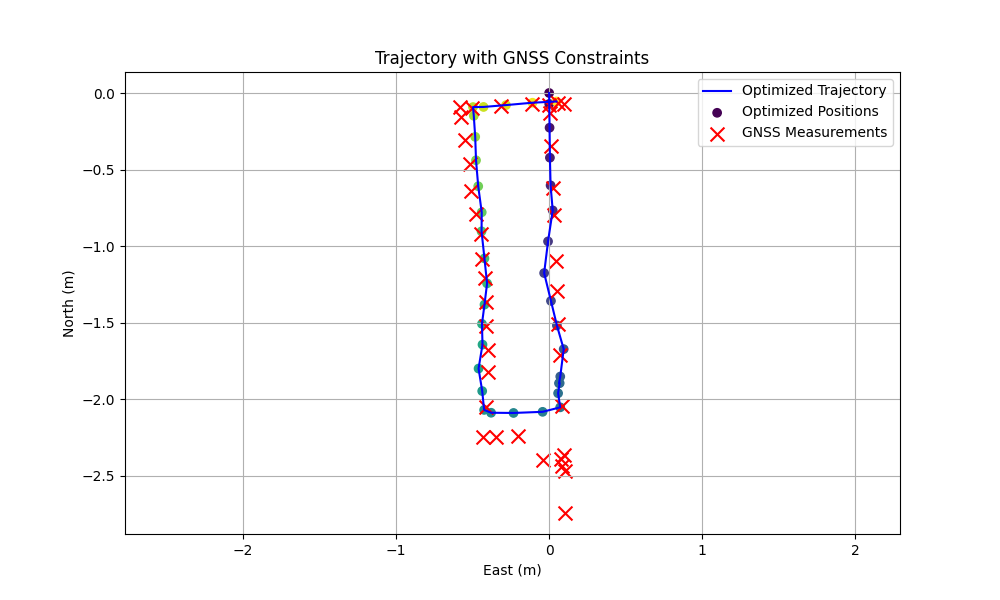
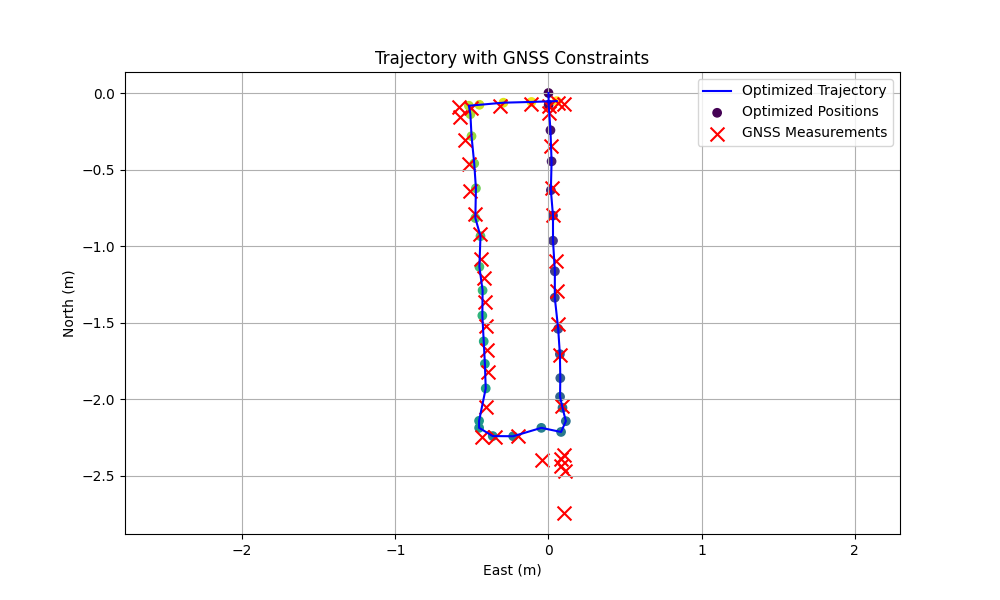
准备开始卡尔曼滤波测试

diff --git a/vggt_slam/solver.py b/vggt_slam/solver.py
@@ -18,7 +18,7 @@ from vggt_slam.map import GraphMap
 from vggt_slam.submap import Submap
 from vggt_slam.h_solve import ransac_projective
 from vggt_slam.gradio_viewer import TrimeshViewer
-
+from KalmanFilter import KalmanFilter
 def color_point_cloud_by_confidence(pcd, confidence, cmap='viridis'):
     """
     Color a point cloud based on per-point confidence values.
@@ -152,7 +152,7 @@ class Solver:
         else:
             from vggt_slam.graph import PoseGraph
         self.graph = PoseGraph()
-
+        self.kf = KalmanFilter(dim_state=6, dim_measurement=3)
         self.image_retrieval = ImageRetrieval()
         self.current_working_submap = None
 
@@ -181,14 +181,16 @@ class Solver:
         # 计算从起点到各点的距离比例
         scale_factors = []
         for i in range(1, len(self.visual_positions)):
+            visual_delta_xy = self.visual_positions[i][:2] - self.visual_positions[i-1][:2]
+            gnss_delta_xy = self.gnss_positions[i][:2] - self.gnss_positions[i-1][:2]
             visual_delta = self.visual_positions[i] - self.visual_positions[i-1]
             gnss_delta = self.gnss_positions[i] - self.gnss_positions[i-1]
-            
             visual_dist = np.linalg.norm(visual_delta)
             gnss_dist = np.linalg.norm(gnss_delta)
             
             if visual_dist > 0.05:  # 避免除以小值
-                scale_factors.append(gnss_dist / visual_dist)
+                factor = gnss_dist / visual_dist
+                scale_factors.append(factor)
         
         if scale_factors:
             self.scale_factor_midian = np.median(scale_factors)
@@ -530,7 +532,8 @@ class Solver:
         # 处理GNSS数据
         if gnss_measurements is not None and len(gnss_measurements) > 0:
             last_gnss = gnss_measurements[-1]
-            current_gnss = np.array(self.graph.gnss_processor.lla_to_enu(*last_gnss))
+            lat, lon, alt = last_gnss
+            current_gnss = np.array(self.graph.gnss_processor.lla_to_enu(lat, lon, alt))
             # 如果是第一个有GNSS的帧，初始化
             if self.last_gnss_pos is None:
                 self.last_visual_pos = current_visual_pos
@@ -539,6 +542,8 @@ class Solver:
                 self.gnss_positions.append(current_gnss)
                 print(f"Initialized GNSS alignment at frame {len(self.visual_positions)}")
             else:
+                visual_delta_xy = current_visual_pos[:2] - self.last_visual_pos[:2]
+                gnss_delta_xy = current_gnss[:2] - self.last_gnss_pos[:2]
                 # 计算相对运动
                 visual_delta = current_visual_pos - self.last_visual_pos
                 gnss_delta = current_gnss - self.last_gnss_pos
@@ -554,9 +559,9 @@ class Solver:
                         print(f"Scale estimate from frame {len(self.visual_positions)-1} to {len(self.visual_positions)}: {scale_estimate:.4f}")
                         self.scale_factor = scale_estimate
                         # 如果有足够的估计点，计算全局尺度
-                        if len(self.visual_positions) >= 1:
-                            self.align_scale()
-                            self.scale_aligned = True
+                        #if len(self.visual_positions) >= 1:
+                        self.align_scale()
+                        self.scale_aligned = True
             # 更新最后位置
             self.last_visual_pos = current_visual_pos
             self.last_gnss_pos = current_gnss
@@ -577,12 +582,11 @@ class Solver:
                 points_world_query = self.current_working_submap.get_frame_pointcloud(loop_index).reshape(-1, 3)
                 H_relative_lc = ransac_projective(points_world_query, points_world_detected)
 
-
             self.graph.add_between_factor(loop.detected_submap_id, loop.query_submap_id, H_relative_lc, self.graph.relative_noise)
             self.graph.increment_loop_closure() # Just for debugging and analysis, keep track of total number of loop closures
 
-            print("added loop closure factor", loop.detected_submap_id, loop.query_submap_id, H_relative_lc)
-            print("homography between nodes estimated to be", np.linalg.inv(self.map.get_submap(loop.detected_submap_id).get_reference_homography()) @ H_w_submap)
+            # print("added loop closure factor", loop.detected_submap_id, loop.query_submap_id, H_relative_lc)
+            # print("homography between nodes estimated to be", np.linalg.inv(self.map.get_submap(loop.detected_submap_id).get_reference_homography()) @ H_w_submap)
         self.map.add_submap(self.current_working_submap)
         # 如果已经对齐尺度，应用到GNSS约束
         if gnss_measurements is not None and len(gnss_measurements) > 0:
@@ -601,12 +605,8 @@ class Solver:
                     self.graph.add_gnss_to_submap(
                         submap_id, 
                         enu, 
-                        scale_factor=self.scale_factor if self.scale_aligned else 200.0
+                        scale_factor=self.scale_factor if self.scale_aligned else 180
                     )
-        # Add GNSS measurements if available
-        # if gnss_measurements is not None and len(gnss_measurements) > 0:
-        #     print(f"Adding {len(gnss_measurements)} GNSS measurements to graph")
-        #     self.graph.add_gnss(gnss_measurements)
 
     def sample_pixel_coordinates(self, H, W, n):
         # Sample n random row indices (y-coordinates)
@@ -657,9 +657,39 @@ class Solver:
                 predictions = model(images)
 
         extrinsic, intrinsic = pose_encoding_to_extri_intri(predictions["pose_enc"], images.shape[-2:])
+
+        # FIXED_FOCAL = 300       
+        # new_intrinsic = intrinsic.clone()
+        
+        # # original_cx = intrinsic[..., 0, 2]
+        # # original_cy = intrinsic[..., 1, 2]
+        
+        # new_intrinsic[..., 0, 0] = FIXED_FOCAL  # fx
+        # new_intrinsic[..., 1, 1] = FIXED_FOCAL  # fy
+        
+        # print("\n============ 焦距修正 ============")
+        # print(f"原始形状: {intrinsic.shape}")
+        # print(f"首帧原始值:\n{intrinsic[0,0].cpu().numpy()}")
+        # print(f"首帧修正后:\n{new_intrinsic[0,0].cpu().numpy()}")
+        # print("================================")
         predictions["extrinsic"] = extrinsic
         predictions["intrinsic"] = intrinsic
         predictions["detected_loops"] = detected_loops
+
+        # intrinsic = new_intrinsic[0]  # 形状变为[num_frames, 3, 3]
+        # print("\n============ 焦距输出 ============")
+        # for frame_idx in range(intrinsic.shape[0]):  # 遍历所有帧
+        #     frame_matrix = intrinsic[frame_idx]
+        #     fx = frame_matrix[0, 0].item()
+        #     fy = frame_matrix[1, 1].item()
+        #     cx = frame_matrix[0, 2].item()
+        #     cy = frame_matrix[1, 2].item()
+            
+        #     print(f"帧 {frame_idx+1}/{intrinsic.shape[0]}:")
+        #     print(f"  fx = {fx:.3f}")
+        #     print(f"  fy = {fy:.3f}")
+        #     print(f"  主点 (cx, cy) = ({cx:.1f}, {cy:.1f})")
+        # print("================================\n")
         # print("extrinsic_after", extrinsic)
         for key in predictions.keys():
             if isinstance(predictions[key], torch.Tensor):

diff --git a/KalmanFilter.py b/KalmanFilter.py
@@ -1,0 +1,129 @@
+import os
+os.environ["QT_QPA_PLATFORM_PLUGIN_PATH"] = "/home/ansel/anaconda3/envs/mast3r-slam/lib/python3.11/site-packages/cv2/qt/plugins/platforms"
+os.environ.update({"QT_QPA_PLATFORM_PLUGIN_PATH": "/home/ansel/anaconda3/envs/mast3r-slam/lib/python3.11/site-packages/cv2/qt/plugins/platforms"})
+import numpy as np
+import matplotlib.pyplot as plt
+import glob
+
+from video_process import VideoProcess
+from gnss_processer import GNSSprocesser
+import vggt_slam.slam_utils as utils
+
+class KalmanFilter:
+    def __init__(self, dim_state, dim_measurement):
+        # 状态维度和观测维度
+        self.dim_state = dim_state
+        self.dim_measurement = dim_measurement
+        
+        # 初始化状态向量 x 和估计误差协方差矩阵 P
+        self.x = np.zeros((dim_state, 1))  # 初始状态，默认为零
+        self.P = np.eye(dim_state)  # 初始误差协方差矩阵，默认为单位矩阵
+        
+        # 初始化状态转移矩阵 F，假设状态每秒更新一次
+        self.F = np.eye(dim_state)
+        self.F = np.array([
+            [1, 0, 0, 0.033, 0, 0],
+            [0, 1, 0, 0, 0.033, 0],
+            [0, 0, 1, 0, 0, 0.033],
+            [0, 0, 0, 1, 0, 0],
+            [0, 0, 0, 0, 1, 0],
+            [0, 0, 0, 0, 0, 1]
+        ])
+        # 初始化观测矩阵 H
+        self.H = np.zeros((dim_measurement, dim_state))
+        self.H = np.array([
+            [1, 0, 0, 0, 0, 0],
+            [0, 1, 0, 0, 0, 0],
+            [0, 0, 1, 0, 0, 0]
+        ])
+        # 初始化过程噪声协方差矩阵 Q 和测量噪声协方差矩阵 R
+        self.Q = np.eye(dim_state) * 0.1  # 假设过程噪声较小
+        self.R = np.eye(dim_measurement) * 1.0  # 假设测量噪声较大
+
+        self.vp_ = VideoProcess() # 相机处理，用于读取图片的GNSS
+        self.gnss_processer = GNSSprocesser()
+        self.gnss_data_enu = []
+        self.gnss_data = []
+        self.optimized_data = []
+    def set(self, gnss_setment):
+        self.gnss_data = gnss_setment
+    def reduce(self):
+        for gps_info in self.gnss_data:
+            lat, lon, alt = gps_info
+        enu = self.gnss_processer.lla_to_enu(lat, lon, alt)
+        self.gnss_data_enu.append(enu)
+        self.gnss_data_enu_array = np.array(self.gnss_data_enu)
+
+        for z in self.gnss_data_enu_array:
+            z = z.reshape(-1, 1)
+            self.predict()
+            self.update(z)
+            self.optimized_data.append(self.x[:3].flatten())
+        self.optimized_data_array = np.array(self.optimized_data)
+        return self.optimized_data_array
+    def predict(self):
+        # 预测步骤
+        self.x = np.dot(self.F, self.x)
+        self.P = np.dot(self.F, np.dot(self.P, self.F.T)) + self.Q
+    
+    def update(self, z):
+        # 更新步骤
+        y = z - np.dot(self.H, self.x)  # 观测残差
+        S = np.dot(self.H, np.dot(self.P, self.H.T)) + self.R  # 残差协方差
+        K = np.dot(self.P, np.dot(self.H.T, np.linalg.inv(S)))  # 卡尔曼增益
+        self.x = self.x + np.dot(K, y)  # 更新状态估计
+        self.P = self.P - np.dot(K, np.dot(self.H, self.P))  # 更新误差协方差
+
+# # 使用示例
+# kf = KalmanFilter(dim_state=6, dim_measurement=3)
+
+# # 假设读取图片中的 GPS 信息
+# image_folder = "/home/ansel/works/vggt-slam/VGGT-SLAM/temp_frames"
+# image_names = [f for f in glob.glob(os.path.join(image_folder, "*")) 
+#                if "depth" not in os.path.basename(f).lower() and "txt" not in os.path.basename(f).lower() 
+#                and "db" not in os.path.basename(f).lower()]
+# image_names = utils.sort_images_by_number(image_names)
+
+# # 读取第一张图片的 GPS 信息
+# gps_info = kf.vp_.read_exif_from_image(image_names[0])
+# kf.gnss_processer.setReference(gps_info)
+
+# gnss_data = np.array(kf.gnss_data)
+
+# # 存储优化后的 GNSS 数据
+# optimized_data = []
+
+# # 通过卡尔曼滤波器逐步处理每一时刻的GNSS测量值
+# for z in gnss_data:
+#     z = z.reshape(-1, 1)  # 将观测数据从一维数组转换为列向量
+#     # 预测步骤
+#     kf.predict()
+
+#     # 更新步骤
+#     kf.update(z)
+
+#     # 将每次更新后的状态（位置）存储到 optimized_data
+#     optimized_data.append(kf.x[:3].flatten())  # 只保存位置 (E, N, U)
+
+# # 转换为 NumPy 数组
+# optimized_data = np.array(optimized_data)
+# os.environ.update({"QT_QPA_PLATFORM_PLUGIN_PATH": "/home/ansel/anaconda3/envs/mast3r-slam/lib/python3.11/site-packages/cv2/qt/plugins/platforms"})
+
+# # 绘制 2D 平面图 (E, N)
+# plt.figure(figsize=(10, 6))
+
+# # 绘制 GNSS 测量数据
+# plt.plot(gnss_data[:, 0], gnss_data[:, 1], 'ro-', label="GNSS Data")
+
+# # 绘制优化后的卡尔曼滤波数据
+# plt.plot(optimized_data[:, 0], optimized_data[:, 1], 'b-', label="Kalman Filtered Data")
+
+# # 设置图标
+# plt.title("GNSS Data vs Kalman Filtered Data")
+# plt.xlabel("East (E)")
+# plt.ylabel("North (N)")
+# plt.legend()
+# plt.grid(True)
+
+# # 显示图形
+# plt.show()

diff --git a/vggt_slam/graph.py b/vggt_slam/graph.py
@@ -17,65 +17,12 @@ class PoseGraph:
         self.gnss_processor = GNSSprocesser() # 加入gnss处理
         self.graph = NonlinearFactorGraph()
         self.values = Values()
-        # n = 0.05*np.ones(15, dtype=float)
-        # n[3] = 1e-6
-        # n[7] = 1e-6
-        # n[11] = 1e-6
-
-        # n[1] = 1e-6
-        # n[2] = 1e-6
-        # n[4] = 1e-6
-        # n[6] = 1e-6
-        # n[8] = 1e-6
-        # n[9] = 1e-6
-        # n[10] = 1e-6
         self.relative_noise = noiseModel.Diagonal.Sigmas(0.05*np.ones(15, dtype=float))
         self.anchor_noise = noiseModel.Diagonal.Sigmas([1e-6] * 15)
         self.initialized_nodes = set()
         self.num_loop_closures = 0 # Just used for debugging and analysis
         self.frame_nodes = {}
-    # def scale_all_poses(self, scale_factor):
-    #     """Scale all pose positions by the given factor while maintaining SL(4) constraints"""
-    #     print(f"Scaling all poses by factor: {scale_factor}")
-    #     # 创建一个新的Values对象来存储缩放后的位姿
-    #     new_values = Values()
-        
-    #     for key in self.initialized_nodes:
-    #         H = self.values.atSL4(key).matrix().copy()
 
-    #         # 正确提取3D位置（考虑齐次坐标）
-    #         position = H[0:3, 3] / H[3, 3]
-            
-    #         # 缩放位置
-    #         scaled_position = position * scale_factor
-            
-    #         # 创建新的变换矩阵 - 保持齐次坐标的最后一行不变
-    #         H_new = H.copy()
-    #         H_new[0:3, 3] = scaled_position * H[3, 3]
-            
-    #         # 确保行列式为正的关键步骤
-    #         det = np.linalg.det(H_new)
-    #         if det < 0:
-    #             # 通过翻转整个矩阵来使行列式为正
-    #             # 这不会改变3D几何，只会改变方向（镜像）
-    #             H_new = -H_new
-    #             det = np.linalg.det(H_new)
-    #             print(f"Adjusted sign of pose {key} to make determinant positive")
-            
-    #         # 归一化使行列式为1（SL(4)要求）
-    #         H_new = H_new / (np.abs(det) ** (1/4))
-            
-    #         # 验证行列式是否为正
-    #         final_det = np.linalg.det(H_new)
-    #         if final_det <= 0:
-    #             print(f"Error: Determinant still not positive for pose {key}: {final_det}")
-    #             continue
-                
-    #         new_values.insert(key, SL4(H_new))
-        
-    #     # 替换values并重新优化
-    #     self.values = new_values
-    #     self.ptimize()
     def add_gnss_to_submap(self, submap_id, enu, scale_factor=1.0):
         """
         为子图添加GNSS约束（使用子图的参考帧位置）
@@ -90,7 +37,6 @@ class PoseGraph:
         if key not in self.initialized_nodes:
             print(f"Warning: Submap {submap_id} not initialized, cannot add GNSS prior")
             return
-        #scale_factor = 200.0
         # 应用缩放因子
         enu_scaled = enu / scale_factor
         
@@ -100,7 +46,7 @@ class PoseGraph:
         self.gnss_processor.add_enu2history(enu_scaled)
 
         noise_vector = np.ones(15) * 1e6
-        horizontal_noise = 100.0 / scale_factor  # 水平方向噪声（米）
+        horizontal_noise = 80.0 / scale_factor  # 水平方向噪声（米）
         vertical_noise = 100.0 / scale_factor    # 垂直方向噪声（米）
         noise_vector[-3] = horizontal_noise  # East
         noise_vector[-2] = horizontal_noise  # North

diff --git a/main_test.py b/main_test.py
@@ -107,6 +107,7 @@ def main():
     total_images = len(image_names)
     half_point = total_images // 1
     solver.graph.gnss_processor.setReference(gps_info_1)
+    solver.kf.gnss_processer.setReference(gps_info_1)
     for i, image_name in enumerate(tqdm(image_names)):
         gps_info_2 = vp_.read_exif_from_image(image_name)
         # print("gps_info_2", gps_info_2)
@@ -143,7 +144,11 @@ def main():
                     solver.update_all_submap_vis()
                 else:
                     solver.update_latest_submap_vis()
-            
+            else:
+                if loop_closure_detected:
+                    solver.update_all_submap_vis()
+                else:
+                    solver.update_latest_submap_vis()
             # Reset for next submap.
             image_names_subset = image_names_subset[-args.overlapping_window_size:]
             real_t_subset = real_t_subset[-args.overlapping_window_size:]

diff --git a/main.py b/main.py
@@ -26,6 +26,7 @@ parser.add_argument("--skip_dense_log", action="store_true", help="by default, l
 parser.add_argument("--log_path", type=str, default="poses.txt", help="Path to save the log file")
 parser.add_argument("--use_sim3", action="store_true", help="Use Sim3 instead of SL(4)")
 parser.add_argument("--plot_focal_lengths", action="store_true", help="Plot focal lengths for the submaps")
+# 较小的值增加计算频率，较大的值提升局部一致性。
 parser.add_argument("--submap_size", type=int, default=3, help="Number of new frames per submap, does not include overlapping frames or loop closure frames")
 parser.add_argument("--overlapping_window_size", type=int, default=1, help="ONLY DEFAULT OF 1 SUPPORTED RIGHT NOW. Number of overlapping frames, which are used in SL(4) estimation")
 parser.add_argument("--downsample_factor", type=int, default=2, help="Factor to reduce image size by 1/N")
